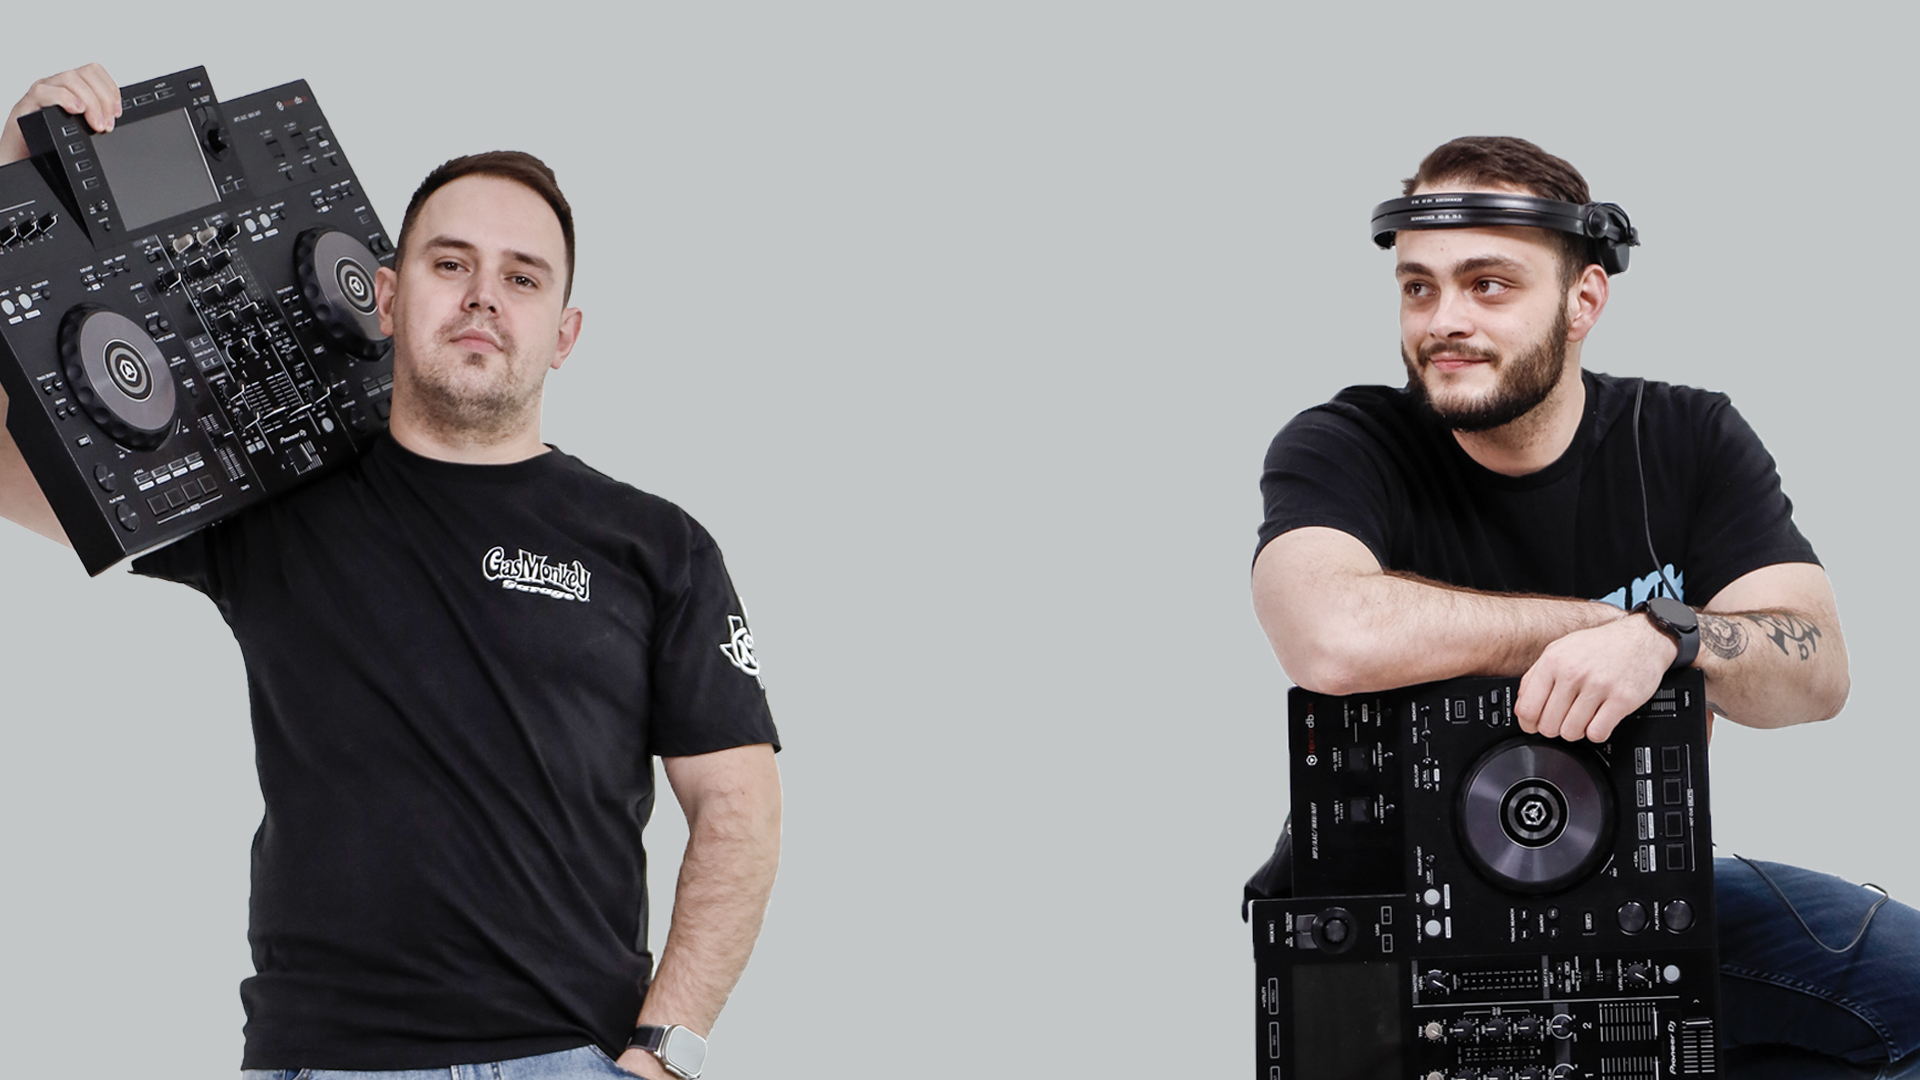
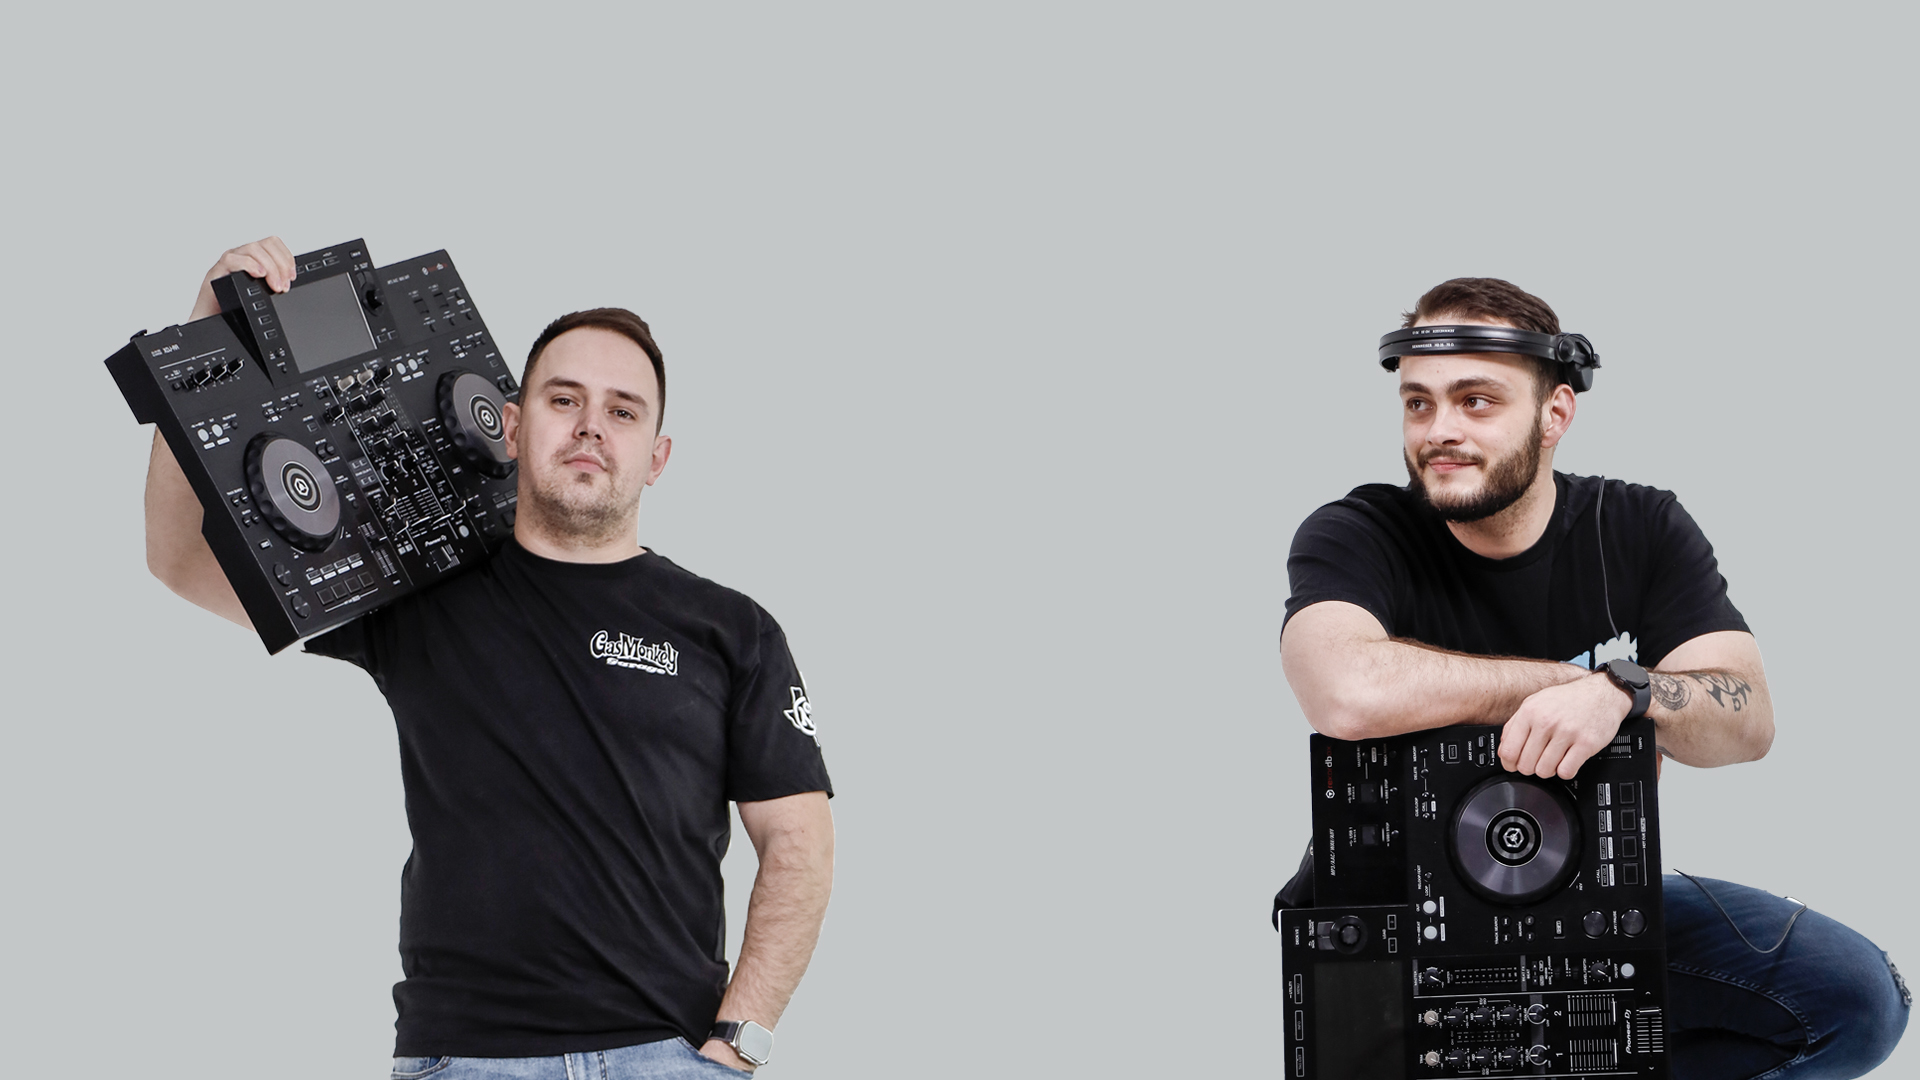
hg

diff --git a/src/components/hero/Hero.jsx b/src/components/hero/Hero.jsx
@@ -5,7 +5,7 @@ import OurWorkButton from "../common/OurWorkButton";
 export default function Hero() {
     return (
         <section
-            className="relative min-h-screen flex items-center justify-center text-center bg-cover bg-center"
+            className="relative min-h-screen flex items-center justify-center text-center bg-contain bg-center"
             style={{
                 backgroundImage: `url(${heroImg})`,
             }}
